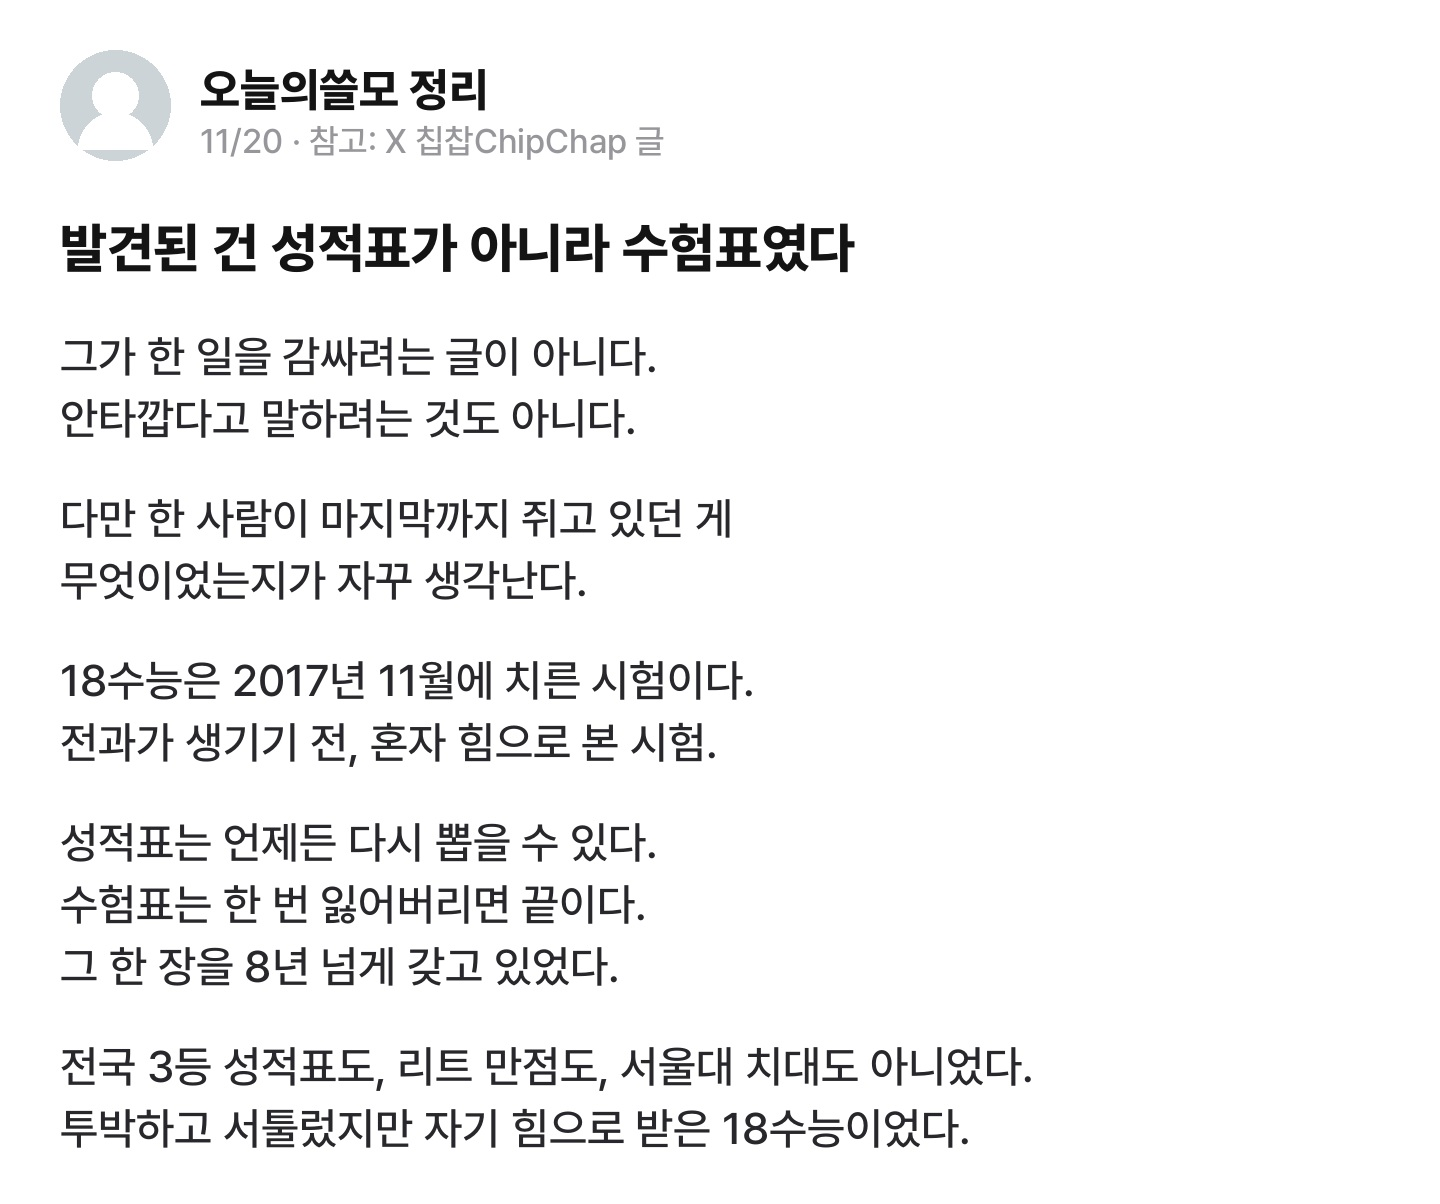
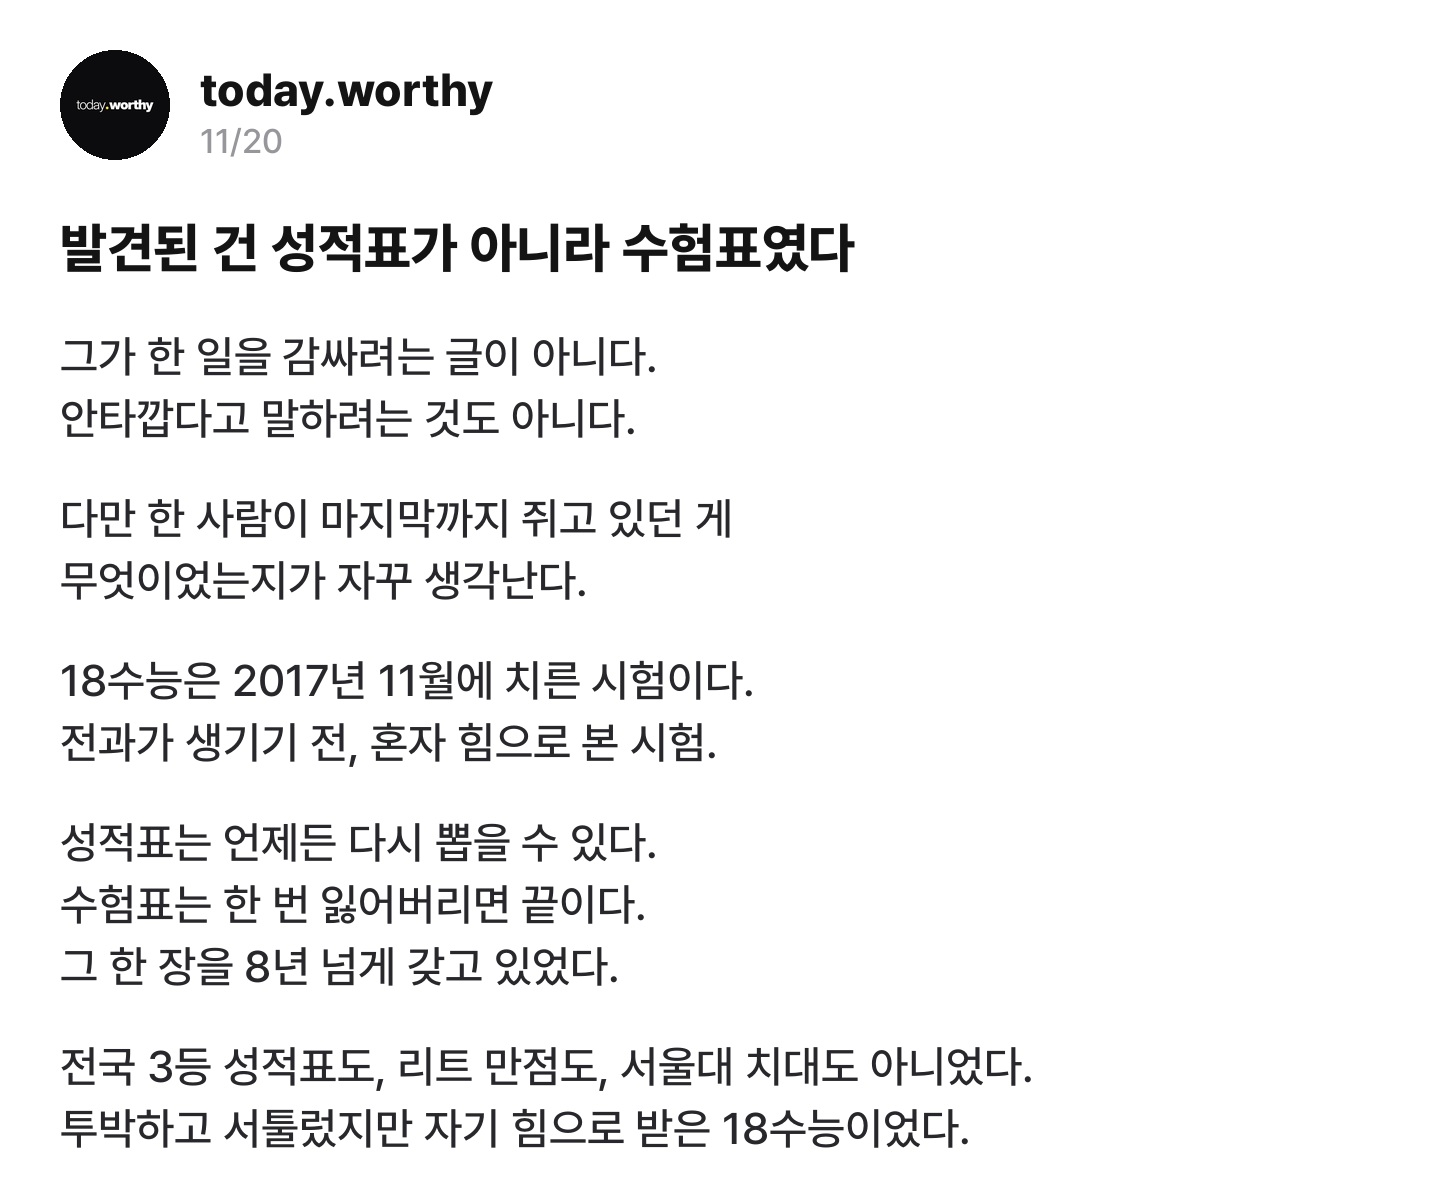
card: leetticket 5장 라벨 제거, 칩찹 참고는 캡션 출처로(게시 안 함)

Changed region(s): [[0.0312, 0.0307, 0.4688, 0.1537]]

diff --git a/media/20261119-leetticket/build_cards.py b/media/20261119-leetticket/build_cards.py
@@ -60,8 +60,8 @@ def panel(rows, h=640, gap=None):
     return p
 # 게시판 글 느낌의 '우리 정리 글'(디시 로고·갤러리명·조회/추천 등 실제 사이트 요소 없음, 작성자 = 오늘의쓸모)
 post = Image.new("RGB", (1440, 1720), (255, 255, 255)); d = ImageDraw.Draw(post)
-d.ellipse((60, 50, 170, 160), fill=(205, 212, 216)); d.ellipse((92, 72, 138, 118), fill=(255, 255, 255)); d.pieslice((78, 112, 152, 186), 180, 360, fill=(255, 255, 255))
-d.text((200, 62), "오늘의쓸모 정리", font=F("ExtraBold", 46), fill=(20, 20, 20)); d.text((200, 120), "11/20 · 참고: X 칩찹ChipChap 글", font=F("Medium", 34), fill=(150, 150, 155))
+pf = Image.open(R / "brand/profile_today_worthy.png").convert("RGB").resize((110, 110), Image.LANCZOS); mk = Image.new("L", (110, 110), 0); ImageDraw.Draw(mk).ellipse((0, 0, 109, 109), fill=255); post.paste(pf, (60, 50), mk)
+d.text((200, 62), "today.worthy", font=F("ExtraBold", 46), fill=(20, 20, 20)); d.text((200, 120), "11/20", font=F("Medium", 34), fill=(150, 150, 155))
 d.text((60, 215), "발견된 건 성적표가 아니라 수험표였다", font=F("ExtraBold", 54), fill=(20, 20, 20))
 body = ["그가 한 일을 감싸려는 글이 아니다.", "안타깝다고 말하려는 것도 아니다.", "",
         "다만 한 사람이 마지막까지 쥐고 있던 게", "무엇이었는지가 자꾸 생각난다.", "",
@@ -73,8 +73,8 @@ for ln in body:
     if ln: d.text((60, y), ln, font=F("Medium", 44), fill=(40, 40, 44))
     y += 62 if ln else 38
 post = post.crop((0, 0, 1440, y + 40)); post.save(O / "post_ours.jpg", quality=94)
-spec = [{"out": str(O / "c05.jpg"), "sub": "오늘의쓸모 정리 (참고: X 칩찹ChipChap 글)", "title": "발견된 건 성적표가 아닌 '수험표'",
-         "cap": str(O / "post_ours.jpg"), "cap_max_h": 780, "box_bg": [255, 255, 255], "caption": "X 칩찹ChipChap 글을 참고해 오늘의쓸모가 정리한 글",
+spec = [{"out": str(O / "c05.jpg"), "sub": "18수능 수험표가 남긴 것", "title": "발견된 건 성적표가 아닌 '수험표'",
+         "cap": str(O / "post_ours.jpg"), "cap_max_h": 780, "box_bg": [255, 255, 255], "caption": "",
          "label": "성적표는 다시 뽑을 수 있지만", "lines": ["수험표는 '한 장뿐'이다"]}]
 (O / "spec5.json").write_text(json.dumps(spec, ensure_ascii=False))
 subprocess.run([sys.executable, str(R / "scripts/post_cap_card.py"), str(O / "spec5.json")], check=True)
